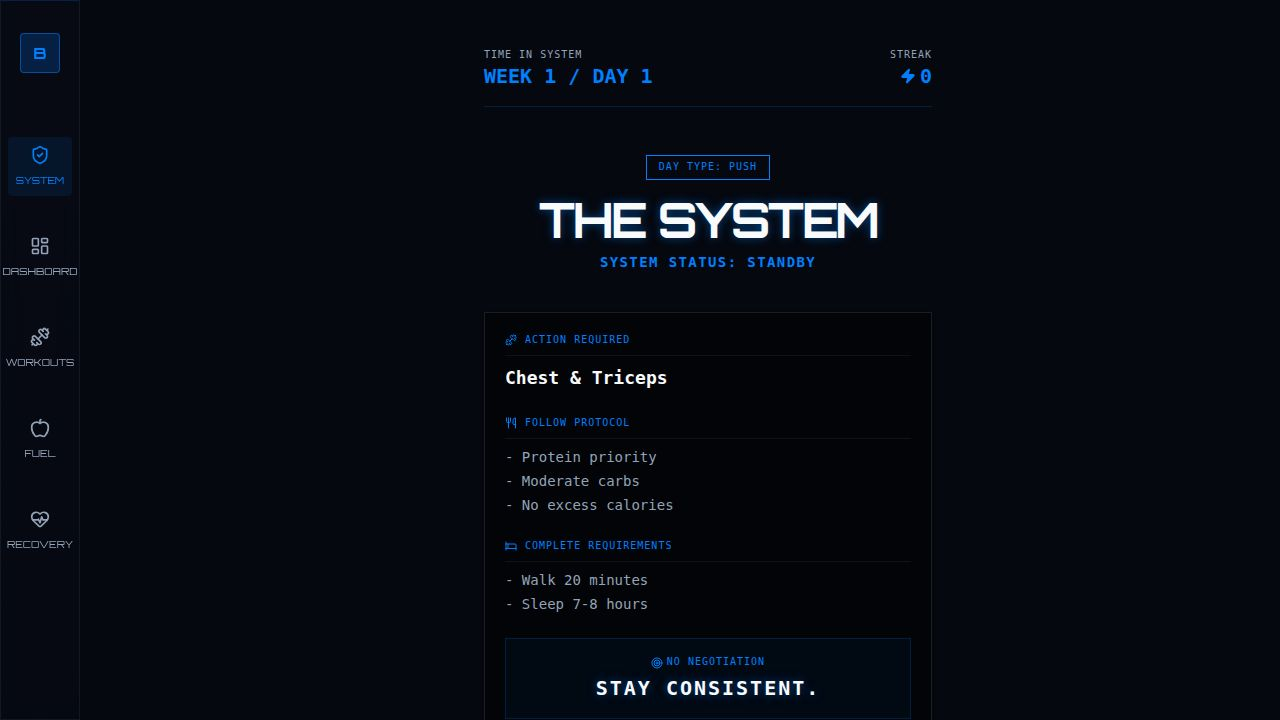
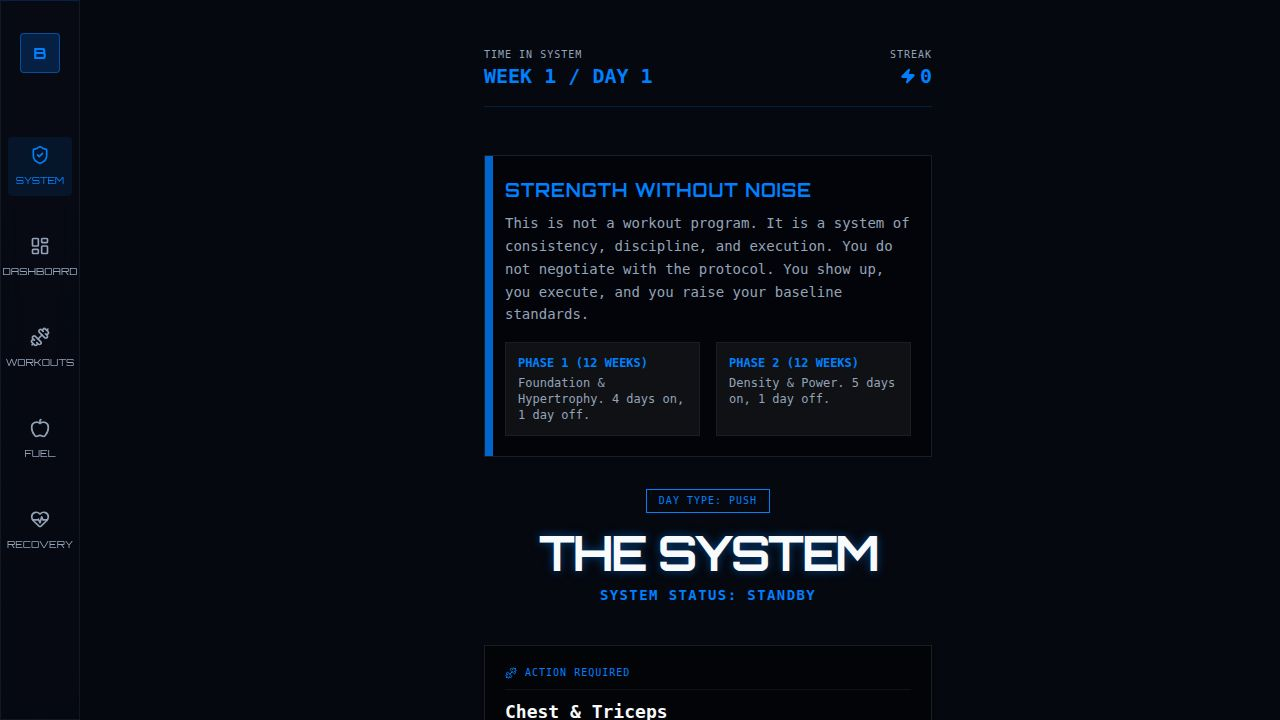
Update dashboard to start at week 1 day 1 and explain workout philosophy
Modify the home page to display the "Strength Without Noise" philosophy and workout structure, ensuring the system state correctly initializes to Week 1 / Day 1.

Replit-Commit-Author: Agent
Replit-Commit-Session-Id: 25b280e0-415f-4aa2-aa81-2b472545ac74
Replit-Commit-Checkpoint-Type: full_checkpoint
Replit-Commit-Event-Id: 06c0f059-e587-42fe-890e-6135d9c5cdb9
Replit-Commit-Screenshot-Url: https://storage.googleapis.com/screenshot-production-us-central1/e563b148-b593-4327-8bd6-2846d65d3909/25b280e0-415f-4aa2-aa81-2b472545ac74/LxlCUzl
Replit-Helium-Checkpoint-Created: true

Changed region(s): [[0.375, 0.2139, 0.7188, 0.8556], [0.375, 0.8861, 0.625, 1.0], [0.5625, 0.4889, 0.7188, 0.5806]]

diff --git a/client/src/pages/home.tsx b/client/src/pages/home.tsx
@@ -106,8 +106,10 @@ export default function Home() {
     });
   };
 
-  const currentWeek = Math.floor(state.completedDays / 7) + 1;
-  const currentDay = (state.completedDays % 7) + 1;
+  // Calculate week and day based on current completed days (0-indexed to 1-indexed)
+  // We want Week 1 / Day 1 on the very first day.
+  const currentWeek = Math.floor((state.completedDays || 0) / 7) + 1;
+  const currentDay = ((state.completedDays || 0) % 7) + 1;
 
   return (
     <div className="min-h-screen bg-background flex flex-col items-center py-12 px-6 font-mono text-sm md:pl-20">
@@ -123,6 +125,25 @@ export default function Home() {
           <span className="text-xl font-bold text-primary flex items-center justify-end gap-1">
             <Zap className="w-4 h-4 fill-primary" /> {state.streak}
           </span>
+        </div>
+      </div>
+
+      {/* Philosophy / Overview */}
+      <div className="w-full max-w-md mb-8 p-5 border border-white/10 bg-black/40 rounded-none relative">
+        <div className="absolute top-0 left-0 w-2 h-full bg-primary/80"></div>
+        <h2 className="font-display text-lg font-bold text-primary uppercase tracking-wider mb-2">Strength Without Noise</h2>
+        <p className="text-muted-foreground text-sm leading-relaxed mb-4">
+          This is not a workout program. It is a system of consistency, discipline, and execution. You do not negotiate with the protocol. You show up, you execute, and you raise your baseline standards.
+        </p>
+        <div className="grid grid-cols-2 gap-4 text-xs font-mono">
+          <div className="border border-white/5 p-3 bg-white/5">
+            <div className="text-primary font-bold mb-1">PHASE 1 (12 WEEKS)</div>
+            <div className="text-muted-foreground">Foundation & Hypertrophy. 4 days on, 1 day off.</div>
+          </div>
+          <div className="border border-white/5 p-3 bg-white/5">
+            <div className="text-primary font-bold mb-1">PHASE 2 (12 WEEKS)</div>
+            <div className="text-muted-foreground">Density & Power. 5 days on, 1 day off.</div>
+          </div>
         </div>
       </div>
 
@@ -494,9 +515,10 @@ export default function Home() {
             </div>
             
             <p className="text-muted-foreground max-w-sm text-sm leading-relaxed border-y border-white/5 py-6 my-2">
-              You showed up for 84 days. You executed the protocol. You built the discipline required to transform. 
+              You have executed the foundation for 12 weeks. Your physical and mental baseline has been elevated. 
               <br/><br/>
-              Welcome to Phase 2. The training wheels are off. New programming has been unlocked in your Training Library.
+              <strong className="text-foreground">Phase 2: Density & Power</strong> begins now. 
+              The protocol escalates to 5 lifting days per week.
             </p>
             
             <Button 
@@ -504,14 +526,13 @@ export default function Home() {
                 setHasSeenPhase2Celebration();
                 setShowPhaseCelebration(false);
               }}
-              className="w-full h-14 rounded-none bg-primary text-black hover:bg-primary/90 font-bold uppercase tracking-widest text-sm shadow-[0_0_20px_hsl(var(--primary)/0.3)] transition-all duration-300 hover:shadow-[0_0_30px_hsl(var(--primary)/0.5)]"
+              className="w-full mt-4 h-14 bg-primary hover:bg-primary/90 text-primary-foreground font-display font-bold uppercase tracking-widest text-sm shadow-[0_0_30px_hsl(var(--primary)/0.3)] transition-all"
             >
-              Enter Phase 2
+              ACCEPT NEW PROTOCOL
             </Button>
           </div>
         </DialogContent>
       </Dialog>
-
     </div>
   );
 }

diff --git a/client/src/hooks/use-system.tsx b/client/src/hooks/use-system.tsx
@@ -39,7 +39,7 @@ const normalizeState = (savedState: Partial<SystemState>): SystemState => {
 
 export function useSystem() {
   const [state, setState] = useState<SystemState>(() => {
-    const saved = localStorage.getItem('system-execution-state');
+    const saved = localStorage.getItem('system-execution-state-v2');
     if (saved) {
       try {
         return normalizeState(JSON.parse(saved));
@@ -51,7 +51,7 @@ export function useSystem() {
   });
 
   useEffect(() => {
-    localStorage.setItem('system-execution-state', JSON.stringify(state));
+    localStorage.setItem('system-execution-state-v2', JSON.stringify(state));
   }, [state]);
 
   const submitDay = (train: boolean, nutrition: boolean, recovery: boolean) => {
